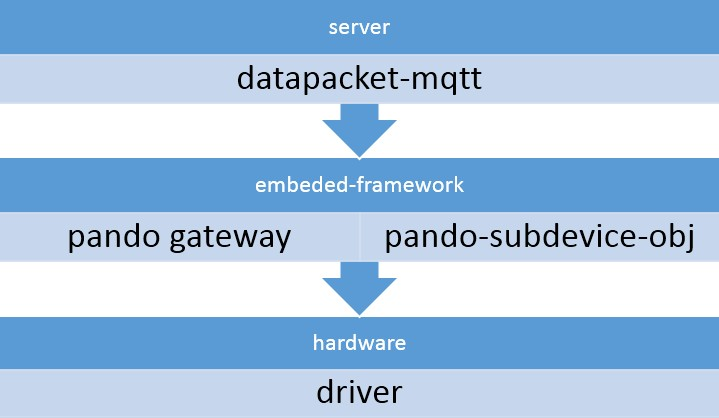
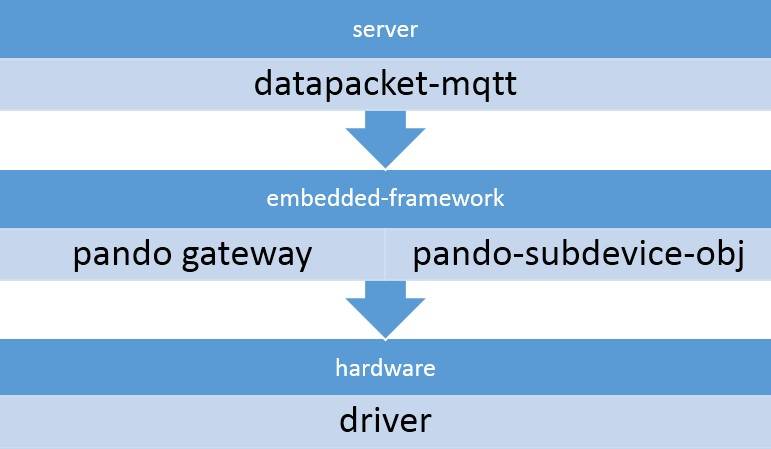
correct the word spelling of "embedded"

diff --git a/README.md b/README.md
@@ -1,9 +1,9 @@
-# pando-embeded-framework
-pando-embeded-framework intends to maintain a middleware between server and hardware driver. It consist of gateway and subdevice common interface.
+# pando-embedded-framework
+pando-embedded-framework intends to maintain a middleware between server and hardware driver. It consist of gateway and subdevice common interface.
 
-- [summary](doc/embeded-framework-summary.md)
-- [gateway](doc/embeded-framework-gateway.md)
-- [subdevice](doc/embeded-framework-object.md)
+- [summary](doc/embedded-framework-summary.md)
+- [gateway](doc/embedded-framework-gateway.md)
+- [subdevice](doc/embedded-framework-object.md)
 
 The directory structure:
 

diff --git a/doc/embedded-framework-summary.md b/doc/embedded-framework-summary.md
@@ -1,5 +1,5 @@
-# embeded-framework-summary
-the main responsibilities of the pando-embeded-framwork:  
+# embedded-framework-summary
+the main responsibilities of the pando-embedded-framwork:  
  
 - maintain the main gateway business, such as, register, login, access, etc.  
 - abstract the common interface of hardware, define the device operation object.  

diff --git a/doc/embedded-framework-gateway.md b/doc/embedded-framework-gateway.md
@@ -1,0 +1,1 @@
+# embedded-framework gateway
